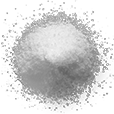
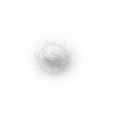
Re-rename sugar levels

diff --git a/ants/classes/sugar_class.py b/ants/classes/sugar_class.py
@@ -8,7 +8,7 @@ class Sugar(pygame.sprite.Sprite):
     """
     def __init__(self):
         pygame.sprite.Sprite.__init__(self)
-        self.initial_image = pygame.image.load("images/sugar/1.png")
+        self.initial_image = pygame.image.load("images/sugar/6.png")
         self.image = self.initial_image
         self.rect = self.image.get_rect()
         pos = misc.get_mouse_loc()
